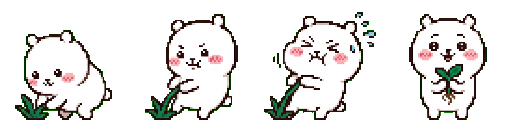
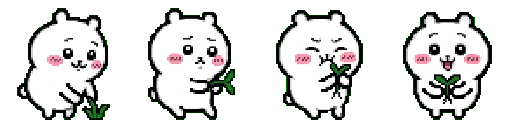
fix(weeding): lock Chiikawa 4-frame weeding sprites to exact official Wordville model

diff --git a/app/src/main/assets/canvas-minigames.js b/app/src/main/assets/canvas-minigames.js
@@ -741,8 +741,6 @@
     c.fillStyle='rgba(74,59,50,0.22)';
     c.beginPath();c.ellipse(wa.x+8,wa.y+4,36,11,0,0,Math.PI*2);c.fill();
     c.translate(wa.x+8,wa.y+jumpOff);
-    // Mirror frames 0-2 so Chiikawa tugs toward the giant weed bush on the right!
-    if(frame<3)c.scale(-1,1);
     c.drawImage(weedSheet,frame*fw,0,fw,fh,-drawSize/2,-drawSize+14,drawSize,drawSize);
     c.restore();
    }else if(wa&&root.WordvilleWalk?.paint){
